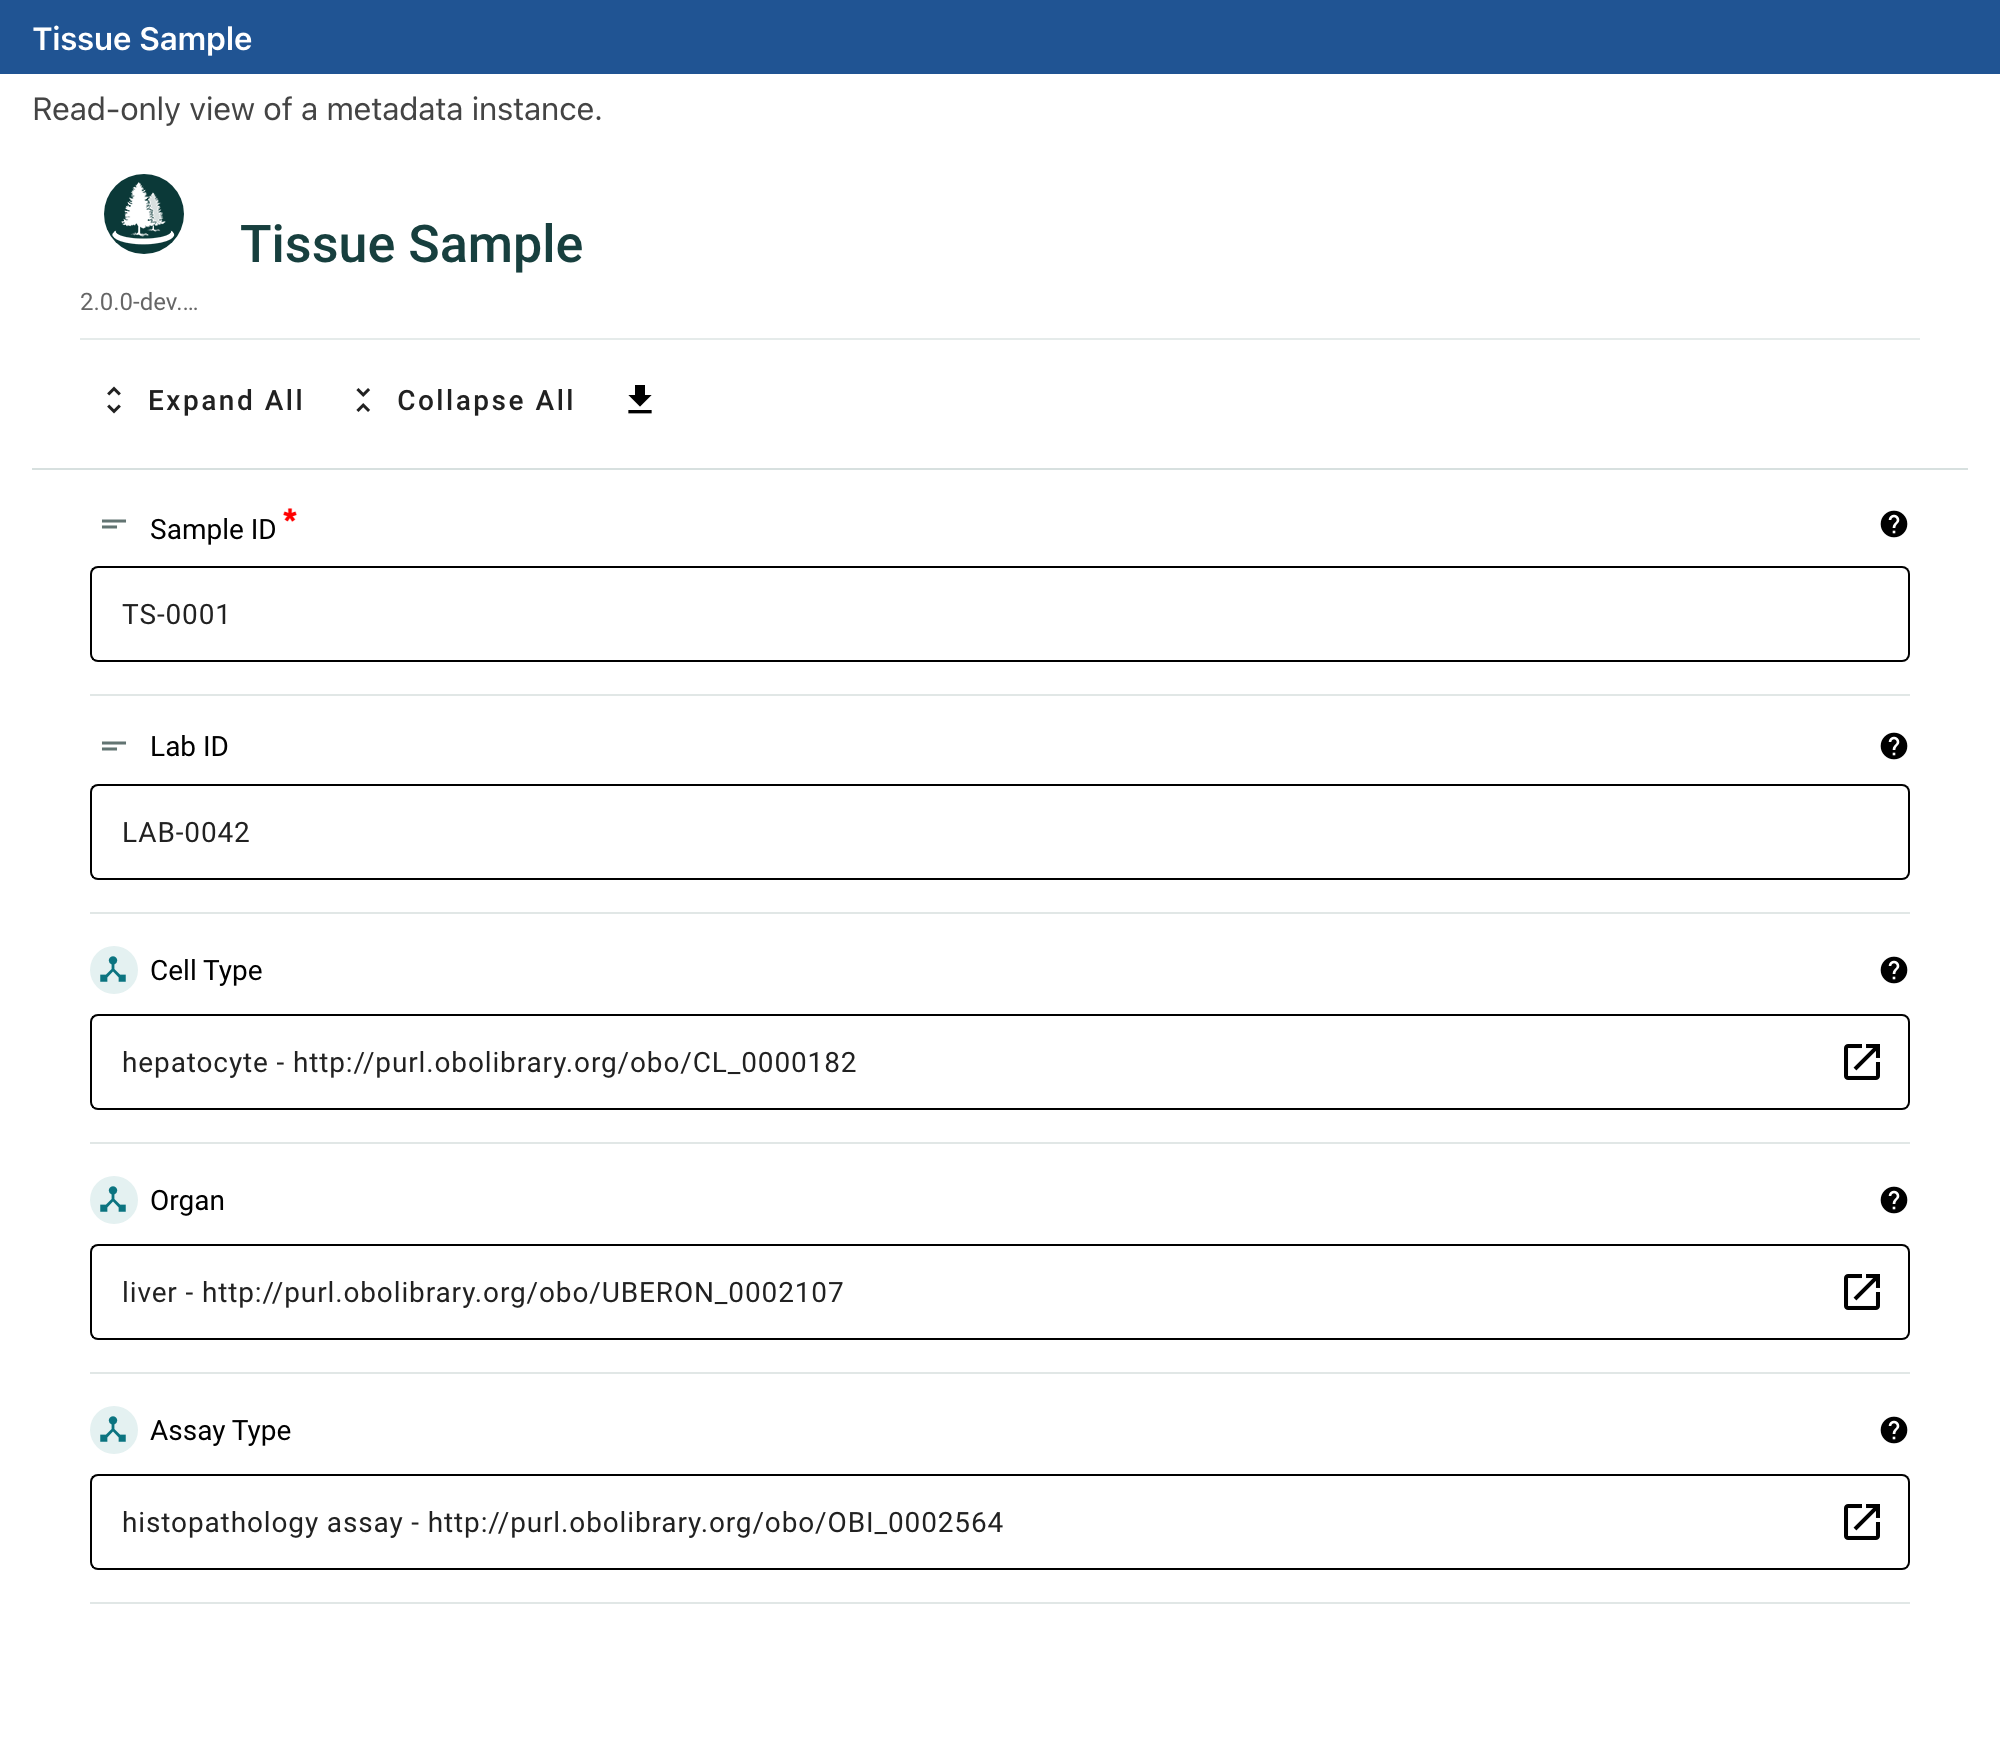
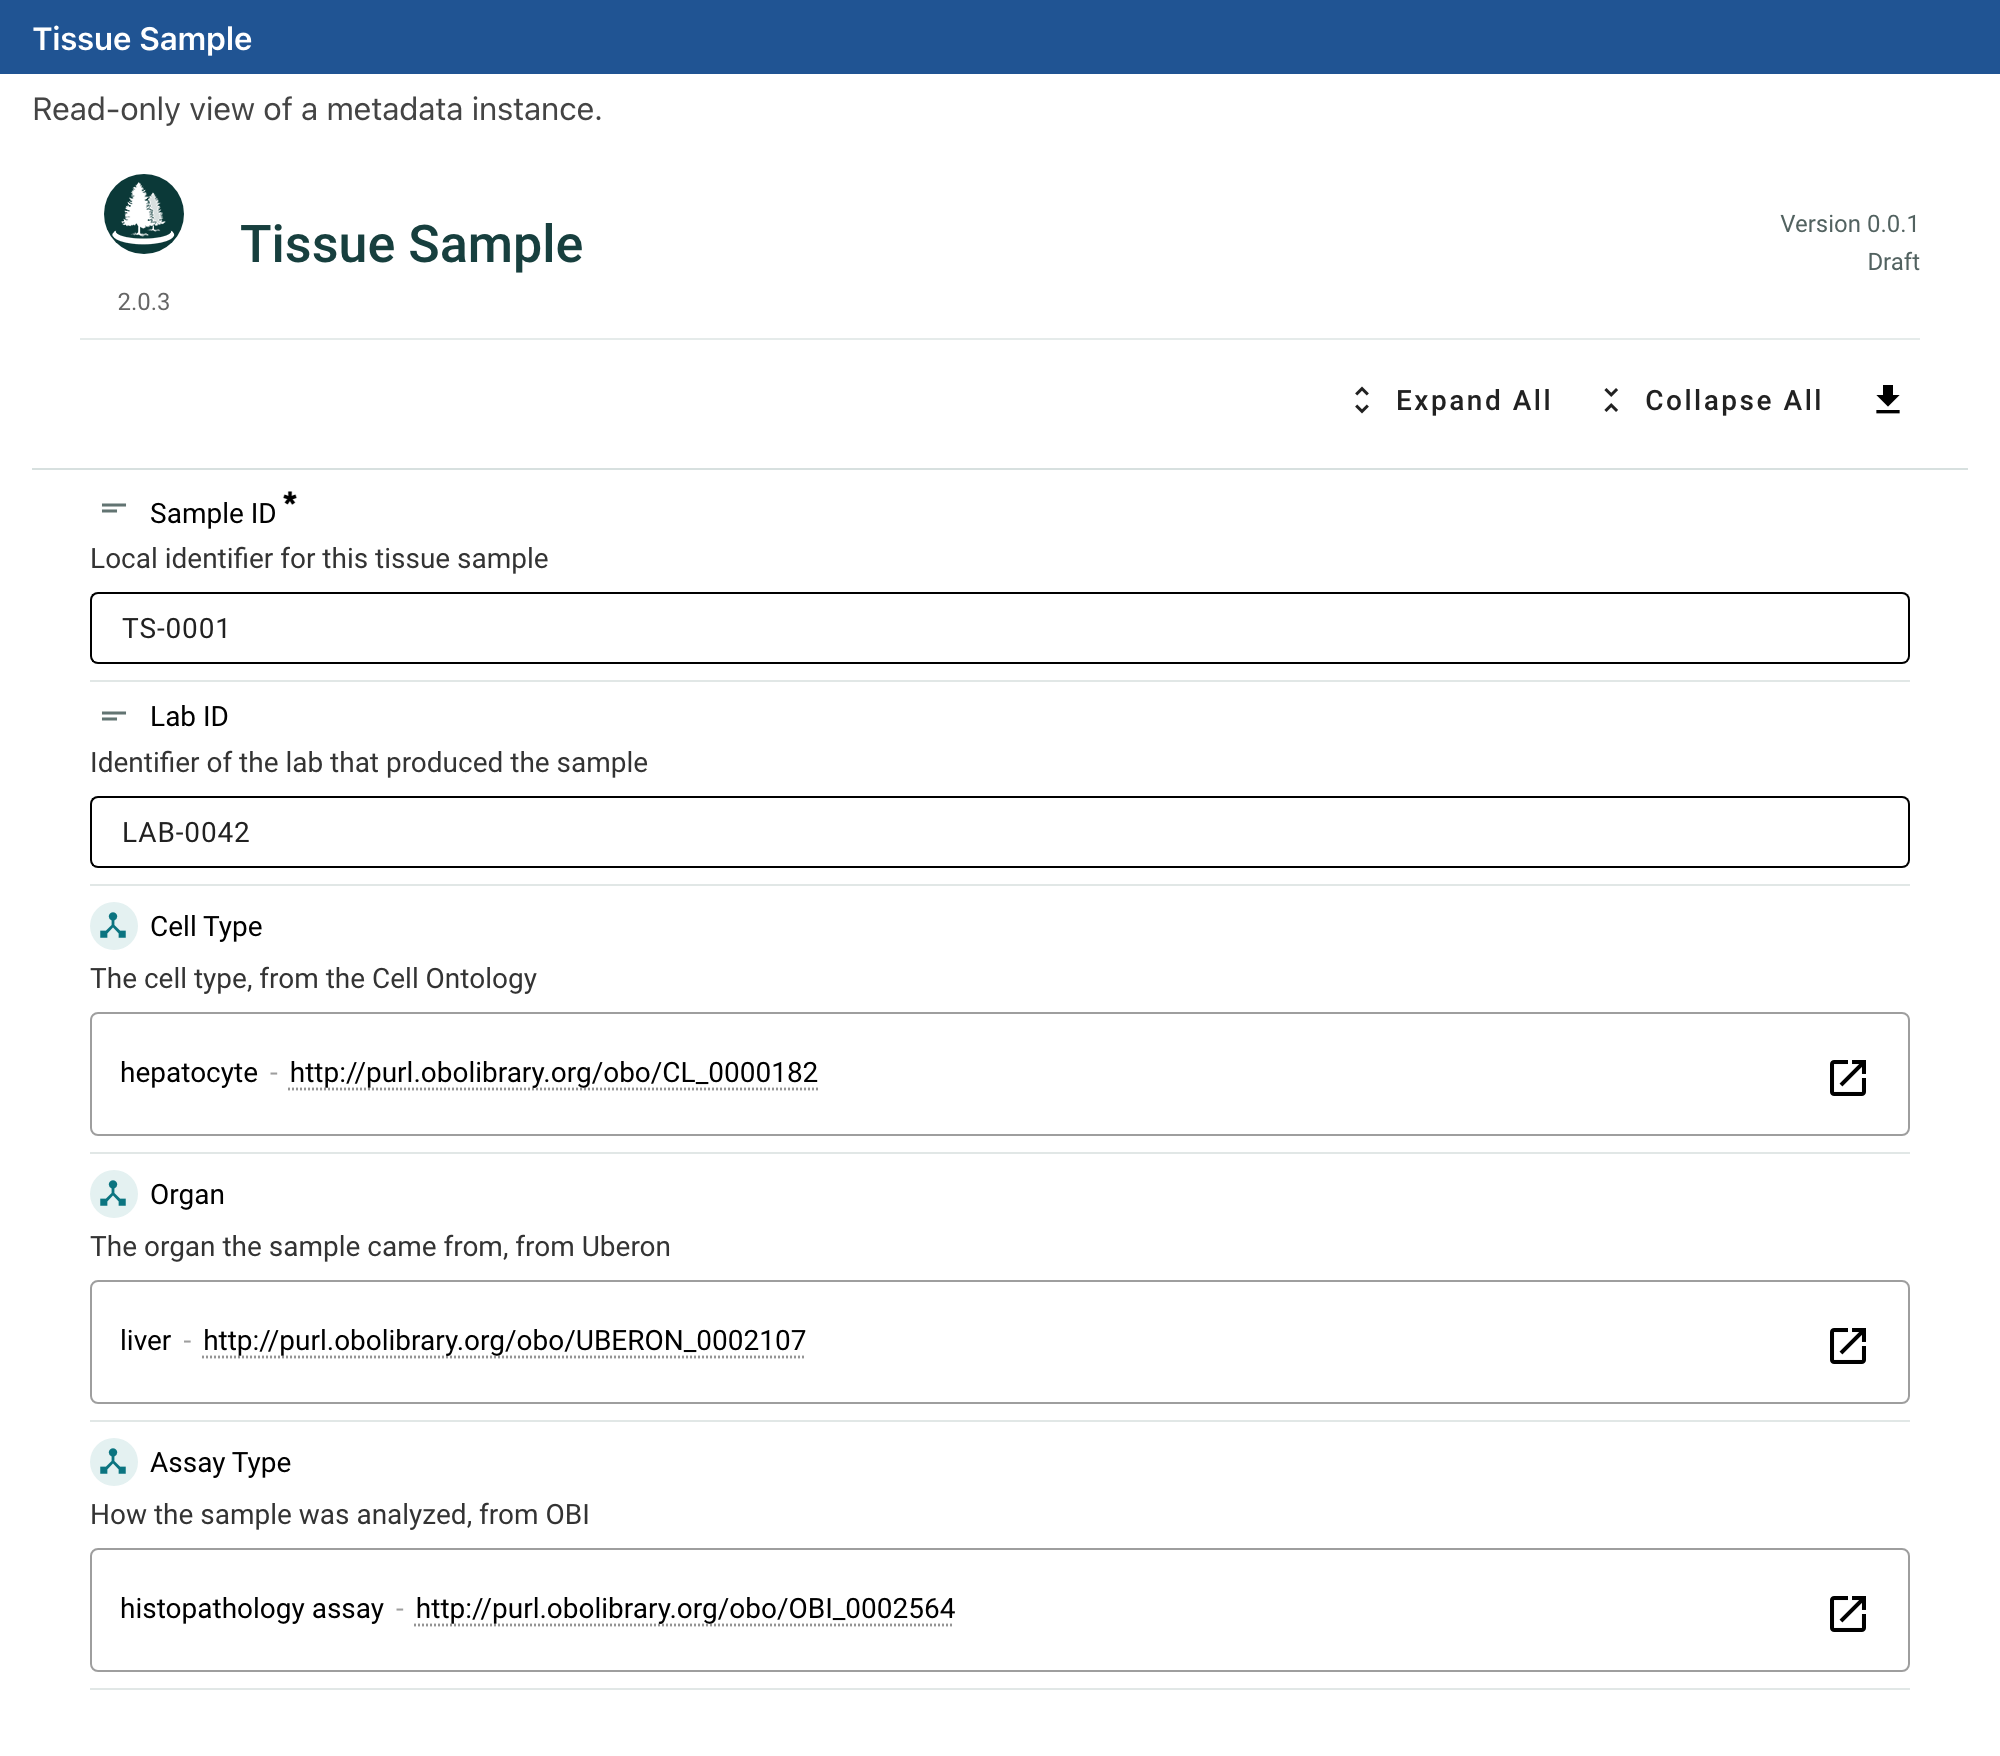
Update MCP tutorial for released CEE stack

diff --git a/docs/tutorials/cedar_mcps_tutorial.md b/docs/tutorials/cedar_mcps_tutorial.md
@@ -80,8 +80,8 @@ what the template should hold:
 > organ from Uberon; and Assay Type, allowing three specific assays:
 > histopathology, imaging, and microscopy.
 
-Everything after this is the LLM working. It happens in three moves:
-resolve the terms, assemble the template, and preview it.
+Everything after this is the LLM working. It resolves the terms, assembles and
+saves the template, then previews it.
 
 ## Step 2: Resolve the Terms
 
@@ -185,22 +185,7 @@ but this is what a CEDAR writer emits. This is compact CEDAR YAML — the form y
 identifier, because the template does not have one yet: CEDAR assigns that when
 the template is saved.
 
-## Step 4: Preview the Template
-
-YAML is exact but hard to picture. The embeddable-editor server renders the
-template as the CEDAR form it describes, opened read-only in your browser, so you
-can check the design before saving anything. The LLM calls `show_template`
-and returns a link:
-
-![The Tissue Sample template, rendered by the CEDAR embeddable editor](../img/tutorials/mcps-tutorial-template.png)
-
-The red asterisk marks Sample ID as required. Cell Type, Organ, and Assay Type
-render as ontology-backed pickers, each inviting you to "Start typing to filter"
-its allowed terms. Behind the form is the very same template as JSON-LD and as
-JSON Schema, the standards-based forms CEDAR speaks natively; the download control
-in the toolbar hands you either one.
-
-## Step 5: Save the Template
+## Step 4: Save the Template
 
 An instance says which template it was filled from, and it says so by IRI. Only
 CEDAR can supply that: the template you have authored exists on your machine and
@@ -218,6 +203,20 @@ them are invented anywhere else: an artifact reaches CEDAR naming nothing, and C
 it. That is also why the YAML you send is the YAML you wrote — the upload is the compact form
 itself, not a JSON translation of it, and what comes back is the same form with the identifiers
 filled in.
+
+## Step 5: Preview the Stored Template
+
+YAML is exact but hard to picture. The embeddable-editor server renders the stored template as the
+CEDAR form it describes, opened read-only in your browser. The LLM hands the saved template returned
+by CEDAR to `show_template` and returns a link:
+
+![The Tissue Sample template, rendered by CEE 2.0.3](../img/tutorials/mcps-tutorial-template.png)
+
+Saving comes before previewing for a concrete reason: CEE requires the template's `@id`, because
+every instance must identify the template it came from. The red asterisk marks Sample ID as
+required. Cell Type, Organ, and Assay Type render as ontology-backed pickers, each inviting you to
+"Start typing to filter" its allowed terms. Behind the form is the same template as JSON-LD and JSON
+Schema, the standards-based forms CEDAR speaks natively; the download control offers either one.
 
 ## Step 6: Fill an Instance
 
@@ -259,7 +258,7 @@ for. `isBasedOn` links the instance back to the template it was filled from.
 
 Preview it the same way, with `show_instance`:
 
-![The filled Tissue Sample instance, rendered by the CEDAR embeddable editor](../img/tutorials/mcps-tutorial-instance.png)
+![The filled Tissue Sample instance, rendered by CEE 2.0.3](../img/tutorials/mcps-tutorial-instance.png)
 
 Each controlled value shows its label beside the IRI it stands for, and links out to the term.
 That is the whole point. The instance stores *hepatocyte* as `CL_0000182`, not as the loose word
@@ -295,6 +294,22 @@ want, keep the approach, and the servers keep the output honest.
 ## Appendix: Configuring the MCP Servers
 
 Each server is a standalone MCP server that your LLM launches over stdio.
+The three Java servers require Java 17 and Maven 3.9 or newer; the BioPortal server requires Python
+3.14 and `uv`. Clone the four repositories, then build and test them from their repository roots:
+
+```bash
+uv sync && uv run pytest                         # bioportal-term-mcp
+mvn verify                                       # cedar-artifact-mcp
+mvn verify                                       # cedar-cee-mcp
+mvn verify                                       # cedar-artifact-rest-mcp
+```
+
+The Maven builds produce fixed client-facing paths under `target/`:
+`cedar-artifact-mcp.jar`, `cedar-cee-mcp.jar`, and `cedar-artifact-rest-mcp.jar`. The artifact and
+CEE servers resolve released `cedar-artifact-library` 2.9.3 from the anonymous-read BMIR Nexus, so
+they need no sibling library checkout. The CEE server also embeds stable CEE 2.0.3 in its JAR; a
+form session does not need npmjs or a CDN at runtime.
+
 You register the four in your client's MCP configuration once. The shape is the
 same across MCP-capable clients (Claude Desktop, Claude Code, and others); the
 launch command and paths depend on how you installed each server. A
@@ -304,20 +319,20 @@ representative configuration:
 {
   "mcpServers": {
     "bioportal-term": {
-      "command": "uv",
+      "command": "/absolute/path/to/uv",
       "args": ["--directory", "/path/to/bioportal-term-mcp", "run", "bioportal-term-mcp"],
       "env": { "BIOPORTAL_API_KEY": "your-bioportal-api-key" }
     },
     "cedar-artifact": {
-      "command": "java",
+      "command": "/absolute/path/to/java",
       "args": ["-jar", "/path/to/cedar-artifact-mcp.jar"]
     },
     "cedar-cee": {
-      "command": "java",
+      "command": "/absolute/path/to/java",
       "args": ["-jar", "/path/to/cedar-cee-mcp.jar"]
     },
     "cedar-artifact-rest": {
-      "command": "java",
+      "command": "/absolute/path/to/java",
       "args": ["-jar", "/path/to/cedar-artifact-rest-mcp.jar"],
       "env": {
         "CEDAR_API_KEY": "your-cedar-api-key",
@@ -335,12 +350,14 @@ A few notes on configuration:
 - The artifact and embeddable-editor servers need no credentials. One builds,
   validates, and renders locally; the other renders locally in your browser.
 - `CEDAR_API_KEY` authenticates the REST server with CEDAR. It is required only
-  if you save artifacts, as in [Save the Template](#step-5-save-the-template).
+  if you save artifacts, as in [Save the Template](#step-4-save-the-template).
 - `CEDAR_BASE_URL` is the CEDAR resource-server URL. For the public CEDAR system,
   use `https://resource.metadatacenter.org`; the REST MCP server uses that value
   by default when the variable is omitted. Set it only when targeting another
   CEDAR deployment.
 
-After adding the block, restart your client. The LLM then has the tools
-this tutorial used, from `find_class` and `set_branch_constraint` to
-`show_template`, ready to call.
+Use absolute executable and JAR paths: GUI clients commonly do not inherit your shell's `PATH`.
+After adding the block, restart your client. Rebuilding a JAR or changing an environment variable
+also requires a restart because the client holds each MCP server process open. The LLM then has the
+tools this tutorial used, from `find_class` and `set_branch_constraint` to `show_template`, ready to
+call.

diff --git a/runner/README.md b/runner/README.md
@@ -2,7 +2,8 @@
 
 Walks the CEDAR Workbench through the tutorial arc and writes screenshots
 straight into the docs tree: `../docs/tutorials/img/` (the CEDAR Tutorial) and
-`../docs/tutorials/term-img/` (the CEDAR Controlled Term Tutorial). Built from
+`../docs/tutorials/term-img/` (the CEDAR Controlled Term Tutorial). It also captures the CEDAR
+MCPs Tutorial's two CEE previews from pages served by `cedar-cee-mcp`. Built from
 [`TRACE.md`](TRACE.md).
 
 > **Status: verified end-to-end (2026-07-16).** A full `node run.mjs` runs all
@@ -33,6 +34,26 @@ The CEDAR Controlled Term Tutorial has its own driver with the same flags:
 node term-run.mjs        # builds the Tissue Sample template, writes ../docs/tutorials/term-img/
 ```
 
+### CEDAR MCP Tutorial
+
+The MCP tutorial uses the real CEE bundle embedded in `cedar-cee-mcp`. Build and launch the MCP,
+then call `show_template` with the tutorial's stored Tissue Sample template and `show_instance` with
+its filled instance. The template needs its CEDAR-assigned identifier; an unsaved template correctly
+produces a CEE error because an instance could not identify what it is based on.
+
+Keep the MCP process alive and pass the two returned loopback URLs to the capture:
+
+```bash
+node mcp-capture.mjs \
+  http://127.0.0.1:<port>/s/<template-session-id> \
+  http://127.0.0.1:<port>/s/<instance-session-id>
+```
+
+The script waits for the component and its fonts, fails on a CEE status or console error, and
+writes `../docs/img/tutorials/mcps-tutorial-template.png` and
+`../docs/img/tutorials/mcps-tutorial-instance.png`. Its 1000×878 viewport at device scale 2 keeps
+the checked-in output at 2000×1756.
+
 Each run creates its own `Tutorial Run <timestamp>` folder, builds everything
 inside it, then deletes artifacts (**instances before templates**) and the
 folder. On failure it saves `failures/FAILED-<step>.png` and leaves the folder
@@ -47,6 +68,7 @@ for inspection (teardown still attempts in `finally`).
 | `lib.mjs`    | browser launch, screenshot, toast wait, row/menu helpers |
 | `steps.mjs`  | one function per tutorial section + teardown |
 | `run.mjs`    | orchestrator, CLI flags, failure capture |
+| `mcp-capture.mjs` | CEE preview URLs → the two MCP tutorial screenshots |
 
 ## Verified selectors & gotchas (live, 2026-07-16)
 

diff --git a/README.md b/README.md
@@ -83,6 +83,21 @@ CEDAR Workbench. It lives in [`runner/`](runner/) and writes straight into
 tooling (Node/Playwright); it never runs during a Read the Docs build. See
 [`runner/README.md`](runner/README.md) for setup and usage.
 
+The two screenshots in the CEDAR MCPs Tutorial come from the local browser pages served by
+`cedar-cee-mcp`, not from the Workbench. Build the current MCP JAR, use its `show_template` and
+`show_instance` tools with the tutorial's stored Tissue Sample template and filled instance, and
+keep that MCP process running while the capture runs:
+
+```bash
+cd runner
+npm install
+node mcp-capture.mjs <show-template-url> <show-instance-url>
+```
+
+The capture waits for CEE to finish rendering, refuses a page whose status or console reports a
+problem, and writes the two 2000×1756 PNGs under `docs/img/tutorials/`. See
+[`runner/README.md`](runner/README.md#cedar-mcp-tutorial) for the full workflow.
+
 ## Diagrams
 
 Diagrams are hand-authored inline SVG in the Markdown, not images. That is a
